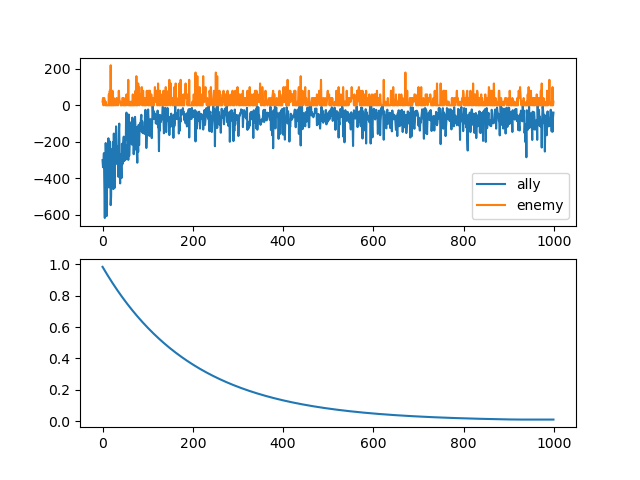
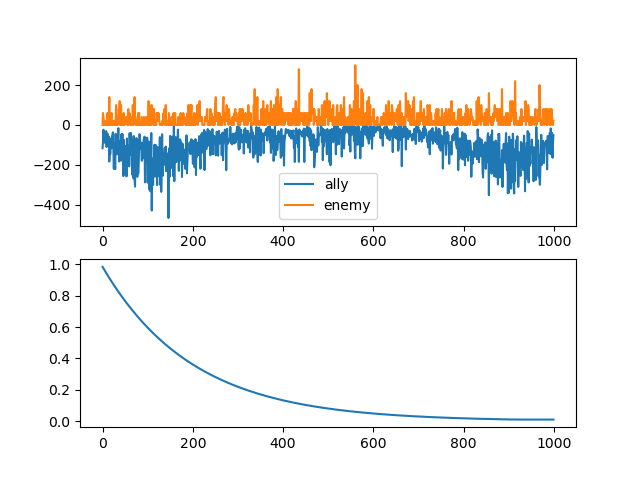
graph agent imp

diff --git a/src/agents/graphagent.py b/src/agents/graphagent.py
@@ -25,8 +25,8 @@ class GraphAgent(BaseAgent):
         self.random_action = torch.distributions.Multinomial(1, probs=random_prob)
 
         self.update_target(src=self.brain, target=self.target)
-        self.eps = 0.5
-        self.eps_decay = 0.995
+        self.eps = 0.9
+        self.eps_decay = 0.996
         self.gamma = 0.99
         self.eps_min = 0.01
 

diff --git a/main_MLP_agent.py b/main_MLP_agent.py
@@ -35,7 +35,7 @@ if __name__ == '__main__':
         ep_ally_reward = 0
         ep_adversary_reward = 0
         while True:
-            env.render()
+            # env.render()
 
             action = [agent(curr_s) for agent, curr_s in zip(agents, curr_state)]
             next_state, reward, _done, info = env.step(action)

diff --git a/main.py b/main.py
@@ -20,7 +20,7 @@ if __name__ == '__main__':
 
     env = make_env_tag()
 
-    max_episodes = 1000
+    max_episodes = 10000
     max_t = 25
     curr_state = env.reset()
     curr_g = state2graphfunc(env, curr_state)
